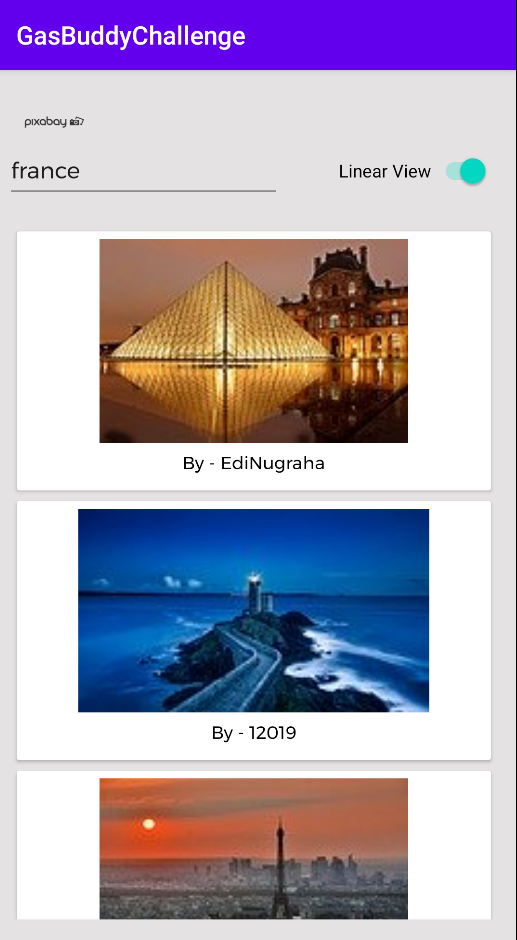
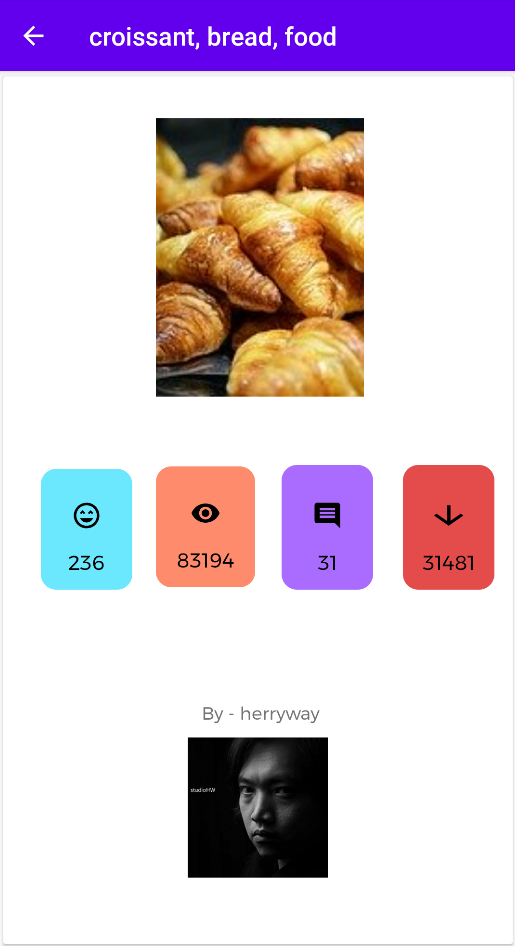
Added user profile pic in image details page

diff --git a/app/src/main/java/com/mp/gasbuddychallenge/MainActivity.kt b/app/src/main/java/com/mp/gasbuddychallenge/MainActivity.kt
@@ -33,7 +33,7 @@ class MainActivity : AppCompatActivity() {
 
 
         val imageSearch: EditText = search
-        Toast.makeText(applicationContext, "Enter something to look pics for and press enter", Toast.LENGTH_LONG).show()
+        Toast.makeText(applicationContext, "Enter photos to look for", Toast.LENGTH_LONG).show()
 
         //below code is for listening to a click event and looking for ENTER key being pressed
         imageSearch.setOnKeyListener(View.OnKeyListener { v, keyCode, event ->
@@ -55,29 +55,28 @@ class MainActivity : AppCompatActivity() {
             }
         })
 
-        pixabay.setOnClickListener{
+        pixabay.setOnClickListener{ // onclick listener for the pixabay logo which takes user to pixabay.com - This is with regards to referencing Pixabay for using the free API3
             pixabay()
         }
 
         //toggle between Linear layout view and Grid layout view when user switches the toggle button
-        toggle.setOnCheckedChangeListener(CompoundButton.OnCheckedChangeListener{button, isChecked ->
+        toggle.setOnCheckedChangeListener { button, isChecked ->
             if(isChecked){
                 println("Nothing")
                 toggle.setText("Linear View")
                 setLinear()
-            }
-            else{
+            } else{
                 //onResume()
                 toggle.setText("Grid View")
                 setGrid()
                 println("nothing")
             }
-        })
+        }
 
     }
 
     private fun setLinear(){
-        recyclerView.layoutManager = LinearLayoutManager(context) //call recyclerview and change its layout manager to Linear layour
+        recyclerView.layoutManager = LinearLayoutManager(context)              //call recyclerview and change its layout manager to Linear layour
     }
 
     private fun setGrid(){
@@ -98,12 +97,12 @@ class MainActivity : AppCompatActivity() {
     private fun fetchImage() {
         var search = search.text.toString()                                                             //user entered keyword
 
-        val url = "https://pixabay.com/api/?key=17028607-1eb3c33d1b6253c843777324f&q=${search}&per_page=25"    //url for API
+        val url = "https://pixabay.com/api/?key=17028607-1eb3c33d1b6253c843777324f&q=${search}&per_page=50"    //url for API
         val request = Request.Builder().url(url).build()                                             //Request builder using the URL
         val client = OkHttpClient()                                                                           //OkHttpClient that will make the API call using request object from above
         val call = client.newCall(request)                                                              //call object
 
-        call.enqueue(object : Callback {                                                                     //enqueue method schedules the request
+        call.enqueue(object : Callback {                                                                     //enqueue method schedules the request since Android does not allow execute on main thread
             override fun onFailure(call: Call, e: IOException) {                                            //If request fails callback goes here
                 Toast.makeText(applicationContext, "Request failed, check your internet connection", Toast.LENGTH_LONG).show()
             }
@@ -113,9 +112,13 @@ class MainActivity : AppCompatActivity() {
                 val gson = GsonBuilder().create()                                          //GSON helps with converting response data to class variables
                 val imageFeed = gson.fromJson(body, Image::class.java)                    //conversion happens here where "body" is converted to list of images from data class Image below
 
-
                 runOnUiThread {                                                                   //runOnUiThread needs to be called in order to show changes on the main UI
-                    recyclerView.adapter = RecyclerAdapter(imageFeed.hits, context)              //recycler adapter instantiated here and sending list of images and current context
+                    if(imageFeed.hits.size != 0){
+                        recyclerView.adapter = RecyclerAdapter(imageFeed.hits, context)              //recycler adapter instantiated here and sending list of images and current context
+                    }
+                    else{
+                        Toast.makeText(applicationContext, "Please check your spelling", Toast.LENGTH_LONG).show()
+                    }
                 }
             }
 
@@ -137,7 +140,9 @@ data class imageInfo(
     var downloads: Number?,
     var comments: Number?,
     var views: Number?,
-    var user: String?
+    var user: String?,
+    var tags: String?,
+    var userImageURL: String?
 )
 
 // Sample Response object from Pixabay API

diff --git a/app/src/main/java/com/mp/gasbuddychallenge/imagedetails.kt b/app/src/main/java/com/mp/gasbuddychallenge/imagedetails.kt
@@ -15,11 +15,13 @@ class imagedetails : AppCompatActivity() {
         super.onCreate(savedInstanceState)
         setContentView(R.layout.activity_imagedetails)
 
-        val actionbar = supportActionBar
-        actionbar!!.title = "Image details"
-        actionbar.setDisplayHomeAsUpEnabled(true)
 
         var bundle = intent.extras
+
+        val actionbar = supportActionBar
+        actionbar!!.title = "${bundle!!.getString("Tags")}"
+        actionbar.setDisplayHomeAsUpEnabled(true)
+
 
         viewsCount.setText(bundle!!.getString("Views").toString())
         likesCount.setText(bundle!!.getString("Likes").toString())
@@ -29,17 +31,20 @@ class imagedetails : AppCompatActivity() {
         var url = bundle!!.getString("Image").toString()
         var uri = Uri.parse(url)
 
+        var url2 = bundle!!.getString("UserImage").toString()
+        var uri2 = Uri.parse(url2)
+
         Glide.with(this)
             .load(uri)
             .into(imageView)
 
-        Toast.makeText(this, "Likes, Views, Comments, Downloads", Toast.LENGTH_LONG).show()
+        Glide.with(this)
+            .load(uri2)
+            .into(userimg)
 
-        imageURL.setOnClickListener {
-            var i = Intent(Intent.ACTION_VIEW)
-            i.setData(uri)
-            startActivity(i)
-        }
+        detailsupload.setText("By - ${bundle!!.getString("user").toString()}")
+
+        Toast.makeText(this, "Likes, Views, Comments, Downloads", Toast.LENGTH_SHORT).show()
 
     }
 

diff --git a/app/src/main/java/com/mp/gasbuddychallenge/RecyclerAdapter.kt b/app/src/main/java/com/mp/gasbuddychallenge/RecyclerAdapter.kt
@@ -52,6 +52,9 @@ class RecyclerAdapter(private var images: List<imageInfo>, val context: Context)
                 intent.putExtra("Likes", items.likes.toString())
                 intent.putExtra("Comment", items.comments.toString())
                 intent.putExtra("Downloads", items.downloads.toString())
+                intent.putExtra("Tags",items.tags.toString())
+                intent.putExtra("UserImage", items.userImageURL.toString())
+                intent.putExtra("user", items.user.toString())
                 itemView.context.startActivity(intent)
             }
 
